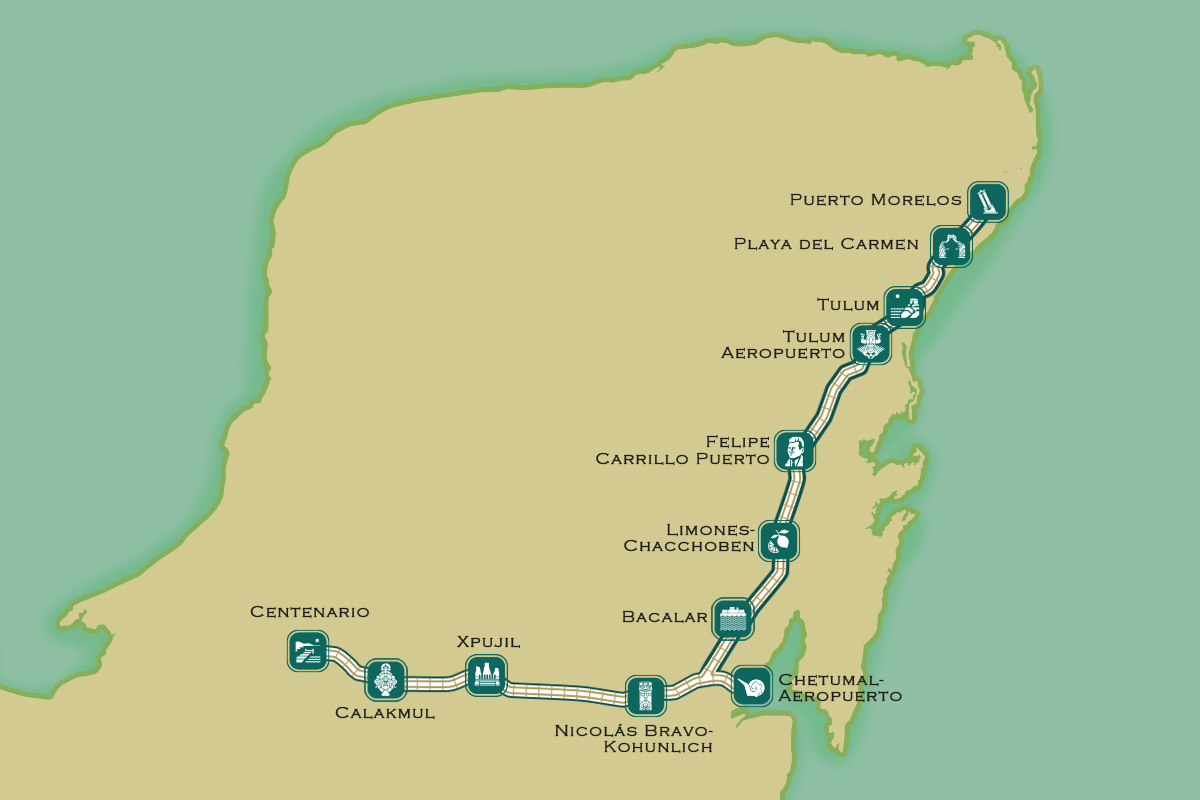
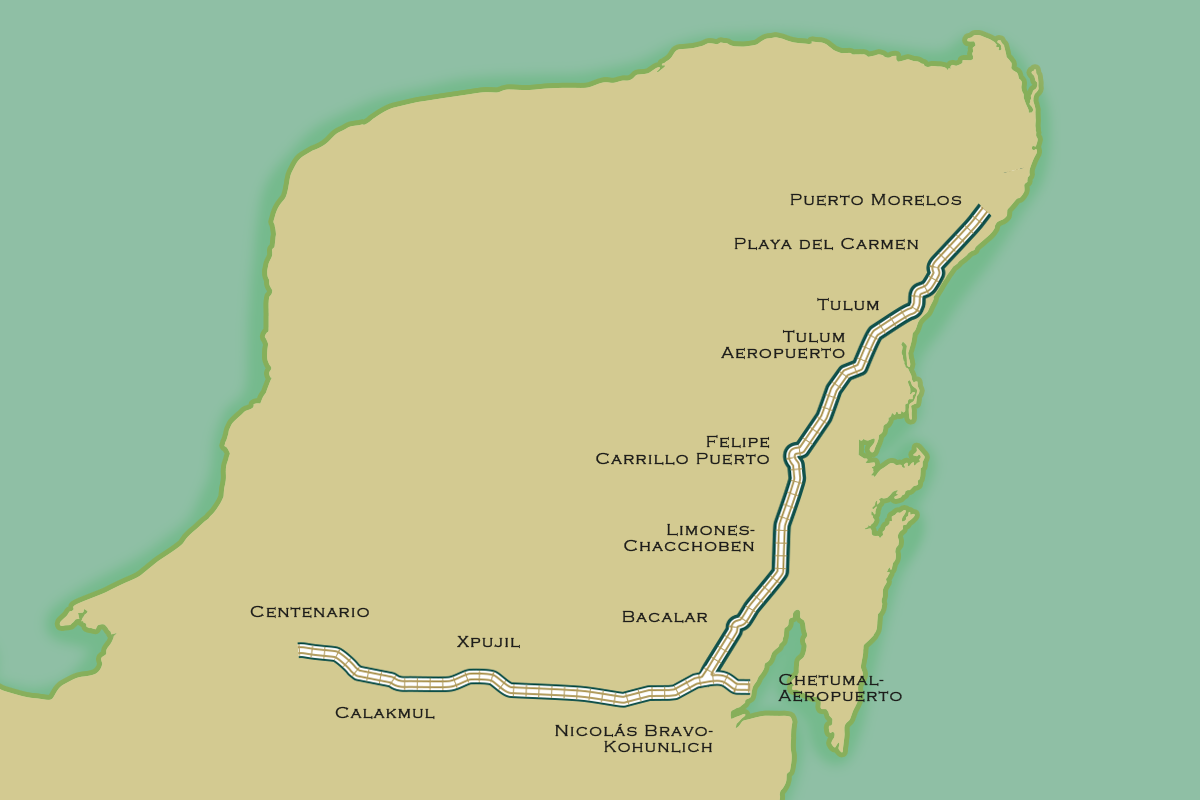
cambio de mapa

diff --git a/public/Diario_de_Viaje/mapa.html b/public/Diario_de_Viaje/mapa.html
@@ -63,46 +63,6 @@ p {
     font-family: "AkzidenzGrotesk-Regular";
     font-size: var(--lg);
     margin-bottom: 10px;
-}
-
-
-        
-        
-        
-        
-        
-        
-        
-        
-        
-        
-        
-        
-        
-        
-        
-        
-        
-        
-        
-        
-        
-        
-        
-        
-        
-        
-        
-        
-        
-        
-        
-        
-        
-        
-        
-        
-        
         /* Estilo para cambiar el cursor al pasar sobre los puntos interactivos */
         area {
             cursor: pointer; /* Cambia el cursor a una mano */
@@ -155,41 +115,203 @@ p {
         }
 
         /* Estilo de los puntos animados */
+        .animated-point-ptomor {
+            position: absolute;
+            width: 15%;
+            height: 15%;
+            background-image: url("https://trenmaya.neocities.org/Assets/iconos/ptomor.svg");
+            background-size: cover;
+            background-position: center;
+            border-radius: 50%;
+            transform: translate(-50%, -50%);
+            transform-origin: center;
+            transition: transform 0.3s ease;
+        }
+
+        .animated-point-playcar {
+            position: absolute;
+            width: 50px;
+            height: 50px;
+            background-image: url("https://trenmaya.neocities.org/Assets/iconos/playcar.svg");
+            background-size: cover;
+            background-position: center;
+            border-radius: 50%;
+            transform: translate(-50%, -50%);
+            transform-origin: center;
+            transition: transform 0.3s ease;
+        }
+
+        .animated-point-tul {
+            position: absolute;
+            width: 15%;
+            height: 15%;
+            background-image: url("https://trenmaya.neocities.org/Assets/iconos/tul.svg");
+            background-size: cover;
+            background-position: center;
+            border-radius: 50%;
+            transform: translate(-50%, -50%);
+            transform-origin: center;
+            transition: transform 0.3s ease;
+        }
+        .animated-point-tula {
+            position: absolute;
+            width: 15%;
+            height: 15%;
+            background-image: url("https://trenmaya.neocities.org/Assets/iconos/tula.svg");
+            background-size: cover;
+            background-position: center;
+            border-radius: 50%;
+            transform: translate(-50%, -50%);
+            transform-origin: center;
+            transition: transform 0.3s ease;
+        }
+        .animated-point-fcp {
+            position: absolute;
+            width: 15%;
+            height: 15%;
+            background-image: url("https://trenmaya.neocities.org/Assets/iconos/fcp.svg");
+            background-size: cover;
+            background-position: center;
+            border-radius: 50%;
+            transform: translate(-50%, -50%);
+            transform-origin: center;
+            transition: transform 0.3s ease;
+        }
+        .animated-point-lim {
+            position: absolute;
+            width: 15%;
+            height: 15%;
+            background-image: url("https://trenmaya.neocities.org/Assets/iconos/lim.svg");
+            background-size: cover;
+            background-position: center;
+            border-radius: 50%;
+            transform: translate(-50%, -50%);
+            transform-origin: center;
+            transition: transform 0.3s ease;
+        }
+        .animated-point-bac {
+            position: absolute;
+            width: 15%;
+            height: 15%;
+            background-image: url("https://trenmaya.neocities.org/Assets/iconos/bac.svg");
+            background-size: cover;
+            background-position: center;
+            border-radius: 50%;
+            transform: translate(-50%, -50%);
+            transform-origin: center;
+            transition: transform 0.3s ease;
+        }
+        .animated-point-chet {
+            position: absolute;
+            width: 15%;
+            height: 15%;
+            background-image: url("https://trenmaya.neocities.org/Assets/iconos/chet.svg");
+            background-size: cover;
+            background-position: center;
+            border-radius: 50%;
+            transform: translate(-50%, -50%);
+            transform-origin: center;
+            transition: transform 0.3s ease;
+        }
+        .animated-point-nico {
+            position: absolute;
+            width: 15%;
+            height: 15%;
+            background-image: url("https://trenmaya.neocities.org/Assets/iconos/nico.svg");
+            background-size: cover;
+            background-position: center;
+            border-radius: 50%;
+            transform: translate(-50%, -50%);
+            transform-origin: center;
+            transition: transform 0.3s ease;
+        }
+        .animated-point-xpu {
+            position: absolute;
+            width: 15%;
+            height: 15%;
+            background-image: url("https://trenmaya.neocities.org/Assets/iconos/xpu.svg");
+            background-size: cover;
+            background-position: center;
+            border-radius: 50%;
+            transform: translate(-50%, -50%);
+            transform-origin: center;
+            transition: transform 0.3s ease;
+        }
+        .animated-point-cal {
+            position: absolute;
+            width: 15%;
+            height: 15%;
+            background-image: url("https://trenmaya.neocities.org/Assets/iconos/cal.svg");
+            background-size: cover;
+            background-position: center;
+            border-radius: 50%;
+            transform: translate(-50%, -50%);
+            transform-origin: center;
+            transition: transform 0.3s ease;
+        }
         .animated-point-cen {
             position: absolute;
             width: 15%;
             height: 15%;
-            background-image: url("https://trenmaya.neocities.org/Assets/iconos/iconos-12.svg");
+            background-image: url("https://trenmaya.neocities.org/Assets/iconos/cen.svg");
             background-size: cover;
             background-position: center;
             border-radius: 50%;
             transform: translate(-50%, -50%);
             transform-origin: center;
             transition: transform 0.3s ease;
-        }
-
-        .animated-point-cal {
-            position: absolute;
-            width: 50px;
-            height: 50px;
-            background-image: url("https://trenmaya.neocities.org/Assets/iconos/iconos-09.svg");
-            background-size: cover;
-            background-position: center;
-            border-radius: 50%;
-            transform: translate(-50%, -50%);
-            transform-origin: center;
-            transition: transform 0.3s ease;
-        }
-
-     
+        }     
 
         /* Animación de rebote continuo (idle) */
-        .animated-point-cen.idle {
+        
+        
+        
+        
+        .animated-point-ptmor.idle {
             transform-origin: center;
             animation: idle-bounce 2s infinite alternate ease-in-out;
         }
-
+        .animated-point-playcar.idle {
+            transform-origin: center;
+            animation: idle-bounce 2s infinite alternate ease-in-out;
+        }
+        .animated-point-tul.idle {
+            transform-origin: center;
+            animation: idle-bounce 2s infinite alternate ease-in-out;
+        }
+        .animated-point-tula.idle {
+            transform-origin: center;
+            animation: idle-bounce 2s infinite alternate ease-in-out;
+        }
+        .animated-point-fcp.idle {
+            transform-origin: center;
+            animation: idle-bounce 2s infinite alternate ease-in-out;
+        }
+        .animated-point-lim.idle {
+            transform-origin: center;
+            animation: idle-bounce 2s infinite alternate ease-in-out;
+        }
+        .animated-point-bac.idle {
+            transform-origin: center;
+            animation: idle-bounce 2s infinite alternate ease-in-out;
+        }
+        .animated-point-chet.idle {
+            transform-origin: center;
+            animation: idle-bounce 2s infinite alternate ease-in-out;
+        }
+        .animated-point-nico.idle {
+            transform-origin: center;
+            animation: idle-bounce 2s infinite alternate ease-in-out;
+        }
+        .animated-point-xpu.idle {
+            transform-origin: center;
+            animation: idle-bounce 2s infinite alternate ease-in-out;
+        }
         .animated-point-cal.idle {
+            transform-origin: center;
+            animation: idle-bounce 2s infinite alternate ease-in-out;
+        }
+        .animated-point-cen.idle {
             transform-origin: center;
             animation: idle-bounce 2s infinite alternate ease-in-out;
         }
@@ -221,7 +343,18 @@ p {
         <img src="https://trenmaya.neocities.org/Assets/mapa.png" usemap="#mapa" alt="Mapa Interactivo" style="width: 100%; height: 100%;" id="mapa-imagen">
         
         <!-- Puntos animados -->
-        <div class="animated-point-cen idle" style="left: 25%; top: 82%;" data-lugar="Puerto Morelos" onclick="mostrarInfo('Puerto Morelos')"></div>
+        <div class="animated-point-ptmor idle" style="left: 25%; top: 82%;" data-lugar="Puerto Morelos" onclick="mostrarInfo('Puerto Morelos')"></div>
+        <div class="animated-point-playcar idle" style="left: 25%; top: 82%;" data-lugar="Playa del Carmen" onclick="mostrarInfo('Playa del Carmen')"></div>
+        <div class="animated-point-tul idle" style="left: 25%; top: 82%;" data-lugar="Tulum" onclick="mostrarInfo('Tulum')"></div>
+        <div class="animated-point-tula idle" style="left: 25%; top: 82%;" data-lugar="Tulum Aeropuerto" onclick="mostrarInfo('Tulum Aeropuerto')"></div>
+        <div class="animated-point-fcp idle" style="left: 25%; top: 82%;" data-lugar="Felipe Carrillo Puerto" onclick="mostrarInfo('PFelipe Carrillo Puerto')"></div>
+        <div class="animated-point-lim idle" style="left: 25%; top: 82%;" data-lugar="Limones" onclick="mostrarInfo('Limones')"></div>
+        <div class="animated-point-bac idle" style="left: 25%; top: 82%;" data-lugar="Bacalar" onclick="mostrarInfo('Bacalar')"></div>
+        <div class="animated-point-chet idle" style="left: 25%; top: 82%;" data-lugar="Chetumal Aeropuerto" onclick="mostrarInfo('Chetumal Aeropuerto')"></div>
+        <div class="animated-point-nico idle" style="left: 25%; top: 82%;" data-lugar="Nicolas Bravo" onclick="mostrarInfo('Nicolas Bravo')"></div>
+        <div class="animated-point-xpu idle" style="left: 25%; top: 82%;" data-lugar="Xpujil" onclick="mostrarInfo('Xpujil')"></div>
+        <div class="animated-point-cal idle" style="left: 25%; top: 82%;" data-lugar="Calakmul" onclick="mostrarInfo('Calakmul')"></div>
+        <div class="animated-point-cen idle" style="left: 25%; top: 82%;" data-lugar="Centenario" onclick="mostrarInfo('Centenario')"></div>
         <!-- <div class="animated-point-cal idle" style="left: 10%; top: 40%;" data-lugar="Puerto Morelos" onclick="mostrarInfo('Puerto Morelos')"></div> -->
         <!-- Agrega más puntos según sea necesario -->
     </div>
@@ -240,10 +373,10 @@ p {
             let info = '';
             switch(lugar) {
                 case 'Puerto Morelos':
-                    info = 'Puerto Morelos es una pequeña ciudad costera conocida por su arrecife coralino.';
+                    info = 'Bla Bla';
                     break;
                 case 'Playa del Carmen':
-                    info = 'Playa del Carmen es famosa por sus playas y la Quinta Avenida llena de tiendas.';
+                    info = 'Bla Bla.';
                     break;
                 // Agregar más casos para otros lugares
                 default:
@@ -278,10 +411,40 @@ p {
         const popupElement = document.querySelector(".popup");
         const rootSyles = getComputedStyle(document.documentElement);
         let backgroundColor;
+        if (pageType === "cap1") {
+            backgroundColor = rootSyles.getPropertyValue("--cap5_o").trim();
+        }
+        if (pageType === "cap2") {
+            backgroundColor = rootSyles.getPropertyValue("--cap5_o").trim();
+        }
+        if (pageType === "cap3") {
+            backgroundColor = rootSyles.getPropertyValue("--cap5_o").trim();
+        }
+        if (pageType === "cap4") {
+            backgroundColor = rootSyles.getPropertyValue("--cap5_o").trim();
+        }
         if (pageType === "cap5") {
             backgroundColor = rootSyles.getPropertyValue("--cap5_o").trim();
         }
-        else if (pageType === "cap6"){
+        if (pageType === "cap6") {
+            backgroundColor = rootSyles.getPropertyValue("--cap5_o").trim();
+        }
+        if (pageType === "cap7") {
+            backgroundColor = rootSyles.getPropertyValue("--cap5_o").trim();
+        }
+        if (pageType === "cap8") {
+            backgroundColor = rootSyles.getPropertyValue("--cap5_o").trim();
+        }
+        if (pageType === "cap9") {
+            backgroundColor = rootSyles.getPropertyValue("--cap5_o").trim();
+        }
+        if (pageType === "cap10") {
+            backgroundColor = rootSyles.getPropertyValue("--cap5_o").trim();
+        }
+        if (pageType === "cap11") {
+            backgroundColor = rootSyles.getPropertyValue("--cap5_o").trim();
+        }
+        if (pageType === "cap12") {
             backgroundColor = rootSyles.getPropertyValue("--cap5_o").trim();
         }
 

diff --git a/public/Diario_de_Viaje/Capitulo_02/menu_es.html b/public/Diario_de_Viaje/Capitulo_02/menu_es.html
@@ -3,28 +3,36 @@
 <head>
     <meta charset="UTF-8">
     <meta name="viewport" content="width=device-width, initial-scale=1.0">
-    <title>Chetumal - Frente 1, Tramo 6</title>
+    <title>Tulum Aeropuerto - Frente 1, Tramo 6</title>
     <link rel="stylesheet" href="style.css">   
 </head>
 <body>
     <div class="container">
-        <h1 class="title">Chetumal</h1>
+        <h1 class="title">Tulum Aeropuerto</h1>
         <h2 class="subtitle">Frente 1, Tramo 6</h2> 
             
         <div class="button-container">
             <a href="pagina1.html" class="custom-button">Galería</a>     
-            <a href="pagina1.html" class="custom-button">Galeria 3d</a>  
+            <a href="pagina1.html" class="custom-button">Galería 3d</a>  
             <a href="pagina1.html" class="custom-button">Infografía</a>  
             <a href="pagina1.html" class="custom-button">Guía</a>     
         </div>
 
-        <div class="image-placeholder"></div>
-        <p class="description">Lorem ipsum dolor sit amet, consectetur adipiscing elit. Aenean commodo ligula eget dolor. Aenean massa. Cum sociis natoque penatibus et magnis dis parturient montes, nascetur ridiculus mus.</p>
-        <p class="details">Donec quam felis, ultricies nec, pellentesque eu, pretium quis, sem. Nulla consequat massa quis enim. Donec pede justo, fringilla vel, aliquet nec, vulputate eget, arcu. In enim justo, rhoncus ut, imperdiet a, venenatis vitae, justo. Nullam dictum felis eu pede mollis pretium. Integer tincidunt. Cras dapibus.</p>
+        <div class="image-placeholder">
+            <iframe src="https://trenmaya.neocities.org/Diario_de_Viaje/mapa.html?pageType=cap6" scrolling="no" class="img3"></iframe> 
+            <!-- <iframe src="C:\Users\viznu\OneDrive\Documents\Projects\TrenMaya_2\public\Diario_de_Viaje\mapa.html?pageType=cap6" scrolling="no" class="img3"></iframe> -->
+        </div>
+
+        
+            <p class="description">Lorem ipsum dolor sit amet, consectetur adipiscing elit. Aenean commodo ligula eget dolor. Aenean massa. Cum sociis natoque penatibus et magnis dis parturient montes, nascetur ridiculus mus.</p>
+            <p class="details">Donec quam felis, ultricies nec, pellentesque eu, pretium quis, sem. Nulla consequat massa quis enim. Donec pede justo, fringilla vel, aliquet nec, vulputate eget, arcu. In enim justo, rhoncus ut, imperdiet a, venenatis vitae, justo. Nullam dictum felis eu pede mollis pretium. Integer tincidunt. Cras dapibus.</p>
     </div>
+
     <div class="footer">	
-        <img src="https://trenmaya.neocities.org/Assets/footer_02.png" class="img2">
-    </div>
+        <img src="https://trenmaya.neocities.org/Assets/footer_05.png" class="img2">
+    </div>  
+
+
 </body>
 </html>
    

diff --git a/public/Diario_de_Viaje/Capitulo_05/style.css b/public/Diario_de_Viaje/Capitulo_05/style.css
@@ -173,8 +173,3 @@ h2 {
         }
 
 }
-
-
-
-
-
